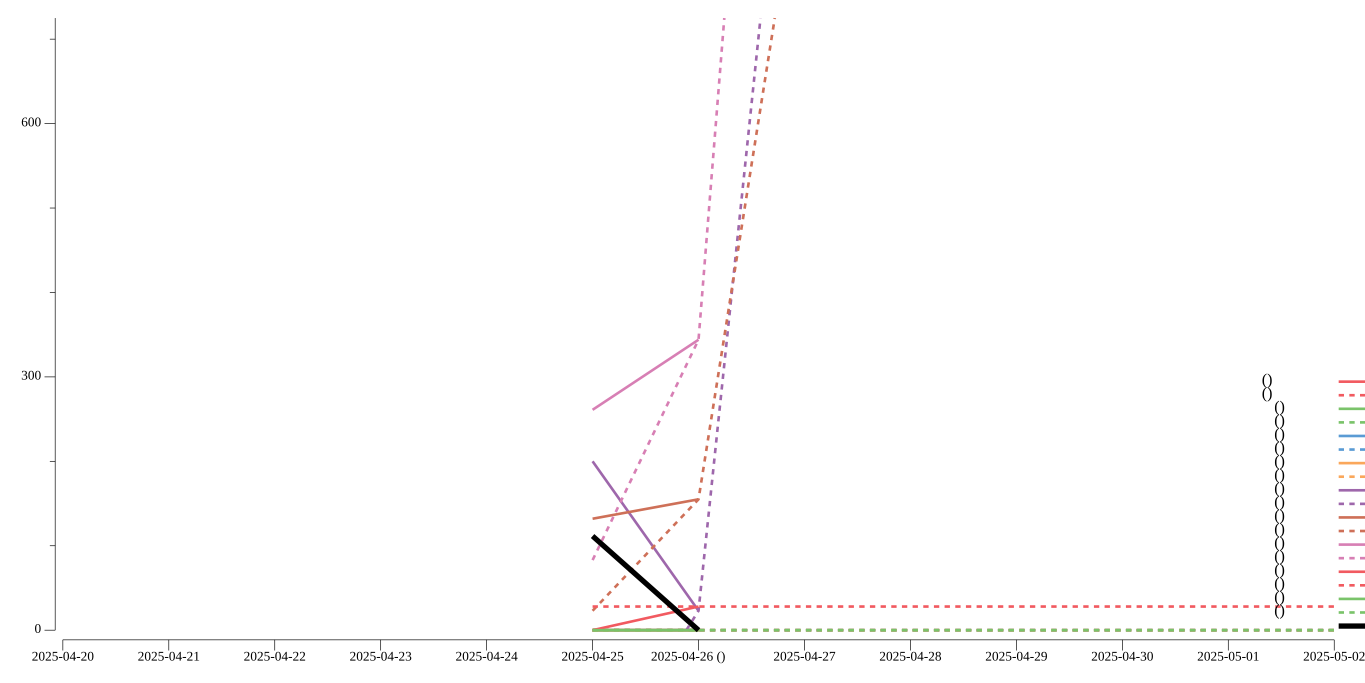
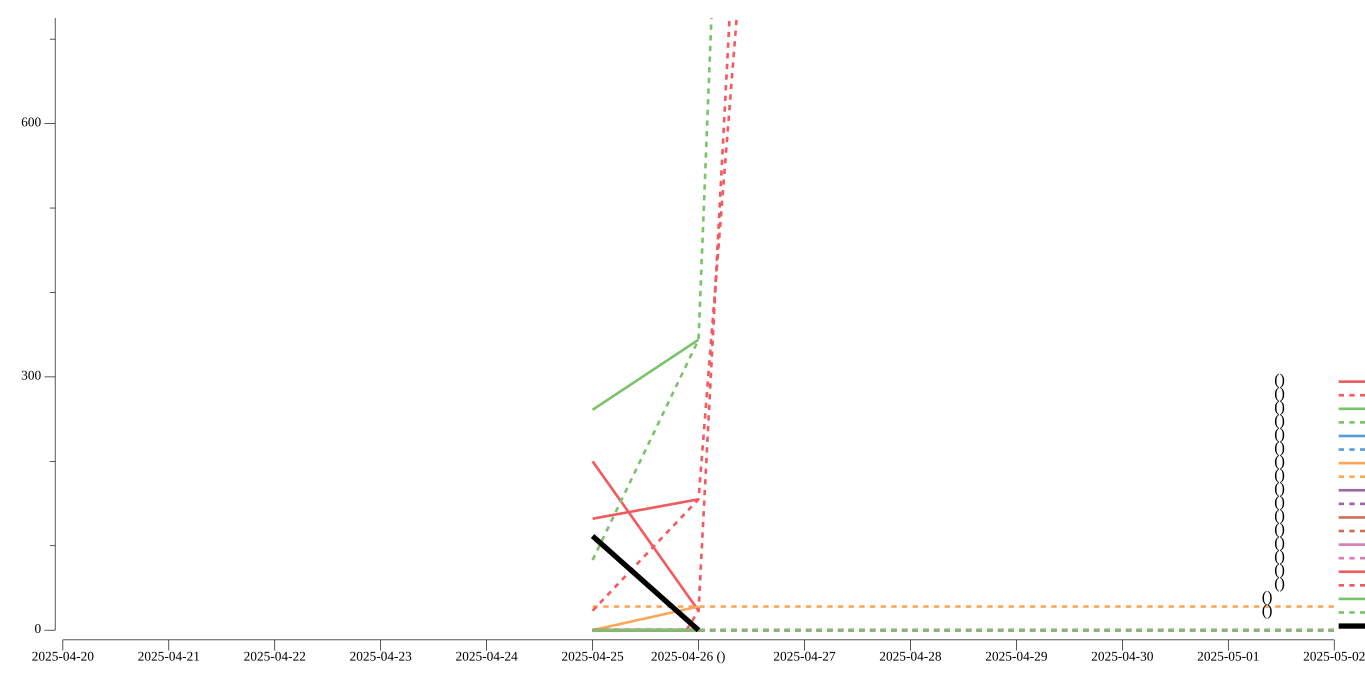
자동 집중도 데이터: 2025-04-26

diff --git a/internal/analyzer/plot.go b/internal/analyzer/plot.go
@@ -255,22 +255,21 @@ func DrawFocusTrends(points, regressionLines map[string]plotter.XYs, evalText, w
 					newRegPts = append(newRegPts, plotter.XY{X: x, Y: pt.Y})
 				}
 			}
-			// 미래 구간(오늘 이후) 회귀선 예측 추가
+			// 미래 구간(오늘 이후) 회귀선 예측 추가 (기울기 2배 반영)
 			lastY := 0.0
-			if len(regPts) > 0 {
+			var lastDelta float64
+			if len(regPts) > 1 {
+				lastDelta = regPts[len(regPts)-1].Y - regPts[len(regPts)-2].Y
+				lastY = regPts[len(regPts)-1].Y
+			} else if len(regPts) > 0 {
 				lastY = regPts[len(regPts)-1].Y
 			}
 			for i := 7; i < 13; i++ { // x=7~12: 미래
 				dateStr := dates[i]
 				if x, ok := dateToX[dateStr]; ok {
-					// 회귀선의 마지막 기울기와 절편을 이용해 예측값 사용
-					if len(regPts) > 1 {
-						delta := regPts[1].Y - regPts[0].Y
-						predY := regPts[len(regPts)-1].Y + delta*float64(i-len(regPts)+1)
-						newRegPts = append(newRegPts, plotter.XY{X: x, Y: predY})
-					} else {
-						newRegPts = append(newRegPts, plotter.XY{X: x, Y: lastY})
-					}
+					// 마지막 기울기를 2배로 반영
+					predY := lastY + lastDelta*2*float64(i-len(regPts)+1)
+					newRegPts = append(newRegPts, plotter.XY{X: x, Y: predY})
 				}
 			}
 			if len(newRegPts) > 0 {
@@ -288,7 +287,7 @@ func DrawFocusTrends(points, regressionLines map[string]plotter.XYs, evalText, w
 		colorIdx++
 	}
 
-	// aggregateLine이 있으면 굵은 검정색 선으로 추가
+	// aggregateLine이 있으면 굵은 검정색 선으로 항상 추가
 	if aggregateLine != nil && len(aggregateLine) > 0 {
 		newAgg := make(plotter.XYs, 0, len(aggregateLine))
 		for i, pt := range aggregateLine {
@@ -304,12 +303,12 @@ func DrawFocusTrends(points, regressionLines map[string]plotter.XYs, evalText, w
 				}
 			}
 		}
-		// 미래 구간(오늘 이후) 회귀선 예측 추가 (aggregate는 선형 보간)
+		// 미래 구간(오늘 이후) 회귀선 예측 추가 (aggregate는 선형 보간, 기울기 2배)
 		if len(newAgg) > 0 {
 			lastY := newAgg[len(newAgg)-1].Y
 			var delta float64
 			if len(newAgg) > 1 {
-				delta = newAgg[len(newAgg)-1].Y - newAgg[len(newAgg)-2].Y
+				delta = (newAgg[len(newAgg)-1].Y - newAgg[len(newAgg)-2].Y) * 2
 			}
 			for i := 7; i < 13; i++ { // x=7~12: 미래
 				if x, ok := dateToX[dates[i]]; ok {
